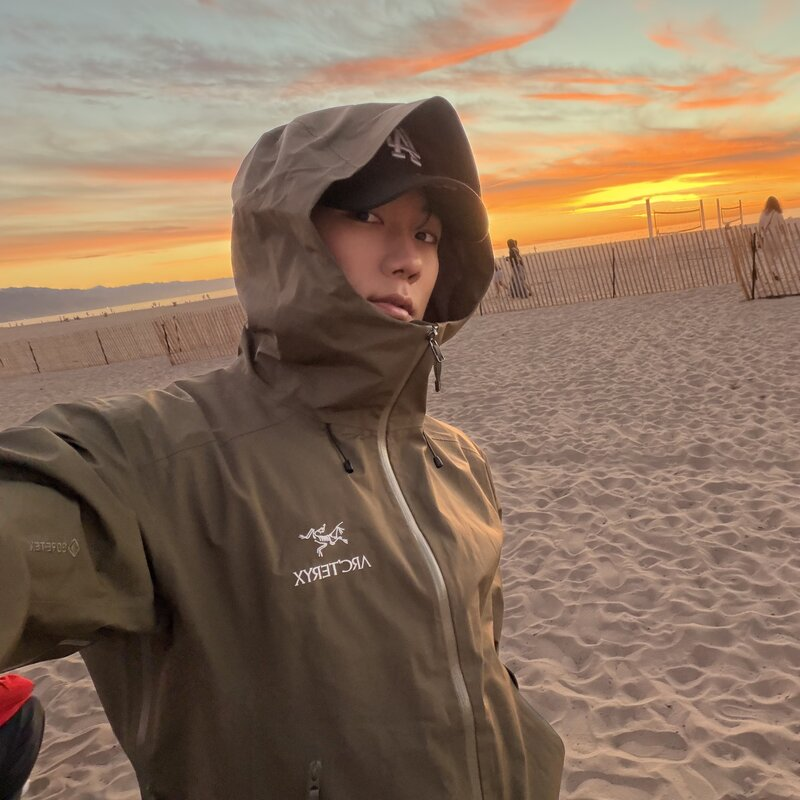
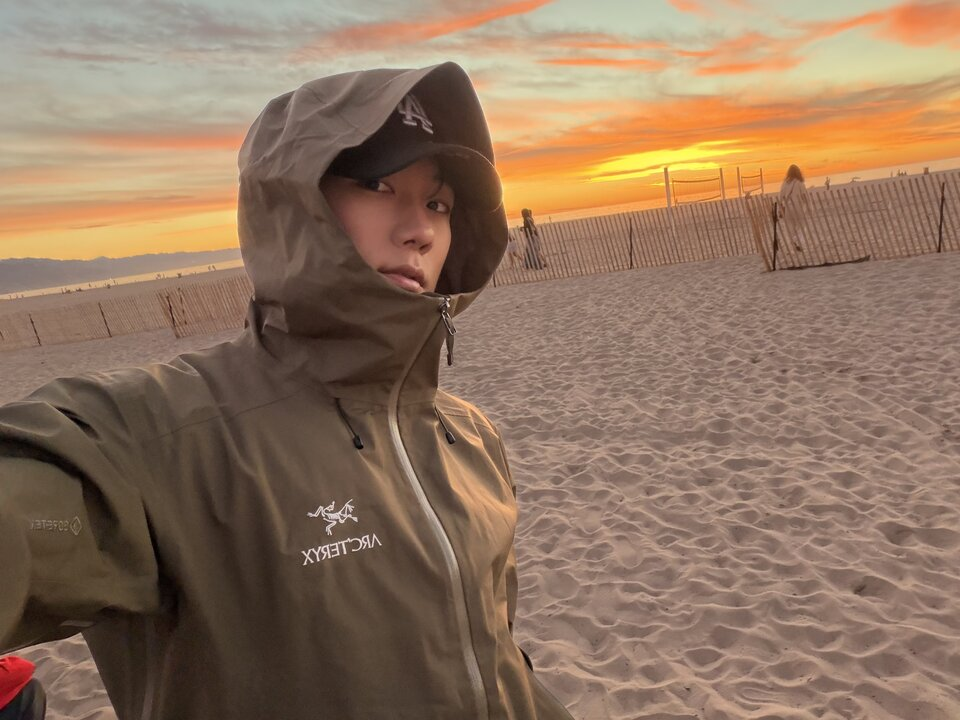
Profile photo: 4:3 landscape crop, slightly wider column

diff --git a/index.html b/index.html
@@ -11,7 +11,7 @@
     <link rel="icon" href="assets/img/favicon.svg" type="image/svg+xml">
     <link rel="icon" href="assets/img/favicon-32.png" type="image/png" sizes="32x32">
     <link rel="apple-touch-icon" href="assets/img/apple-touch-icon.png">
-    <link rel="stylesheet" type="text/css" href="assets/css/style.css?v=2026100408">
+    <link rel="stylesheet" type="text/css" href="assets/css/style.css?v=2026100409">
     <script>
       // Apply the theme before first paint: saved choice, else the OS preference
       (function () {
@@ -452,6 +452,6 @@
         </td>
       </tr>
     </tbody></table>
-    <script src="assets/js/main.js?v=2026100408"></script>
+    <script src="assets/js/main.js?v=2026100409"></script>
   </body>
 </html>

diff --git a/assets/css/style.css b/assets/css/style.css
@@ -306,20 +306,20 @@ span.highlight {
 
 .intro-text {
   padding: 2.5%;
-  width: 66%;
+  width: 62%;
   vertical-align: middle;
 }
 
 .intro-photo {
   padding: 2.5%;
-  width: 34%;
-  max-width: 34%;
+  width: 38%;
+  max-width: 38%;
 }
 
 .intro-photo img {
   width: 100%;
   max-width: 100%;
-  aspect-ratio: 1 / 1;
+  aspect-ratio: 4 / 3;
   object-fit: cover;
   border-radius: 6px;
 }
@@ -566,7 +566,7 @@ tr.paper:focus-within .two {
   }
 
   .intro-photo {
-    max-width: 200px;
+    max-width: 260px;
     margin: 0 auto;
   }
 
